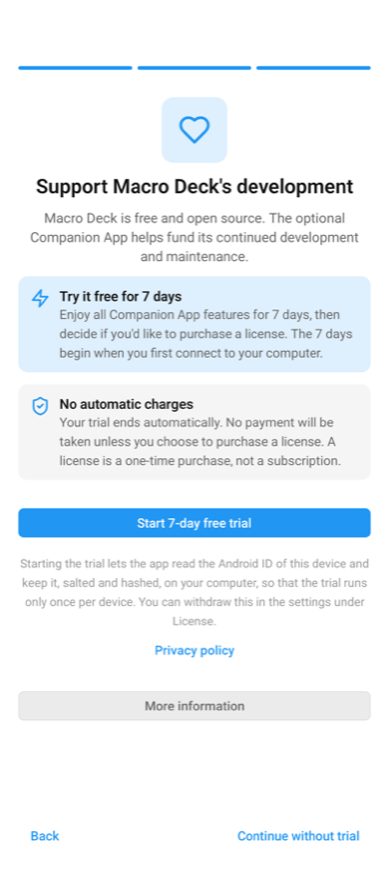
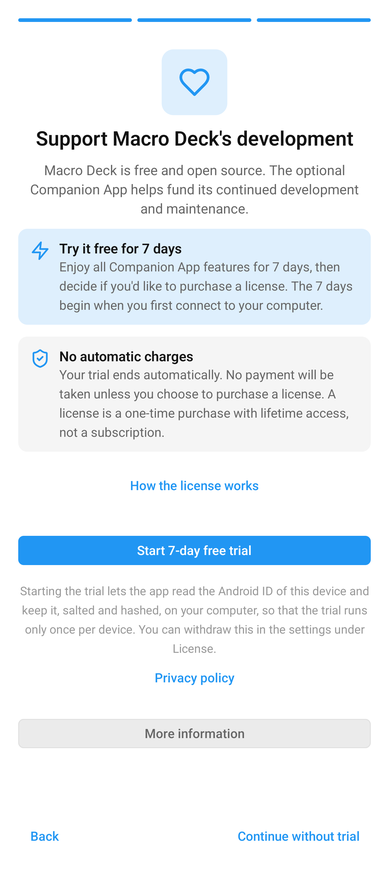
Explain the lifetime Companion license

diff --git a/docs/src/content/docs/guide/companion-app/license.md b/docs/src/content/docs/guide/companion-app/license.md
@@ -8,9 +8,12 @@ purchase covers all your phones and tablets.
 
 ## One purchase for all your devices
 
-The license is a one-time purchase in the App Store or on Google Play, with no subscription. **Buy license**
+The license is a one-time purchase in the App Store or on Google Play with lifetime access: there is no subscription,
+it does not expire and it is never charged again. Only a license passed on to someone else can be revoked, see
+below. **Buy license**
 first shows what the app adds over the web client, the price in your store and these terms; nothing is bought
-until you confirm it there. The purchase supports the development and maintenance of Macro Deck, which stays free
+until you confirm it there. **How the license works**, on the paywall, the purchase screen and the last step of the
+first start, opens this page. The purchase supports the development and maintenance of Macro Deck, which stays free
 and open source. It does not stay
 on the phone you bought it on: the app hands it to your computer, and **Macro Deck gives it to every Companion
 app that connects**. Your other phones and tablets get it from there, whether they run Android or iOS, and
@@ -66,7 +69,7 @@ Each device can try the app for 7 days. Start the trial on the last step of the
 [first start](/guide/companion-app/setup/#first-start) or on the **Not licensed** banner of the Connections screen
 with **Start 7-day free trial**, or on the paywall of a deck with **Start 7-day trial**.
 
-![The paywall in the Android app, with the Start 7-day trial button](../../../../assets/guide/companion/android-paywall.png)
+![The paywall in the Android app, which calls the license a one-time purchase with lifetime access, with the Start 7-day trial button and the How the license works link](../../../../assets/guide/companion/android-paywall.png)
 
 The trial runs on your computer's clock, so it begins on the first connection: started from the first start or the
 banner, the Connections screen says **Your free trial is ready** until then, and the first computer you connect to starts it

diff --git a/docs/src/content/docs/guide/companion-app/setup.md b/docs/src/content/docs/guide/companion-app/setup.md
@@ -26,9 +26,10 @@ app halfway, it opens on the step you left. On the last step:
   computer; see [The 7-day trial](/guide/companion-app/license/#the-7-day-trial).
 - **More information** opens the purchase screen with what the app adds over the web client and the price in your
   store. Closing it returns to the last step; nothing is started or bought until you tap **Buy license** there.
+- **How the license works** opens [License and trial](/guide/companion-app/license/) in the browser.
 - **Continue without trial** finishes without starting the trial. You can still start it later from the paywall.
 
-![The last onboarding step on Android: Try it free for 7 days, No automatic charges, and the Start 7-day free trial, More information and Continue without trial buttons](../../../../assets/guide/companion/android-onboarding.png)
+![The last onboarding step on Android: Try it free for 7 days, No automatic charges, the How the license works link, and the Start 7-day free trial, More information and Continue without trial buttons](../../../../assets/guide/companion/android-onboarding.png)
 
 The steps show only once, on a new installation. If you updated from an earlier version, or the device already
 holds a license or a trial (on iPhone and iPad these survive reinstalling the app), the app opens on the
